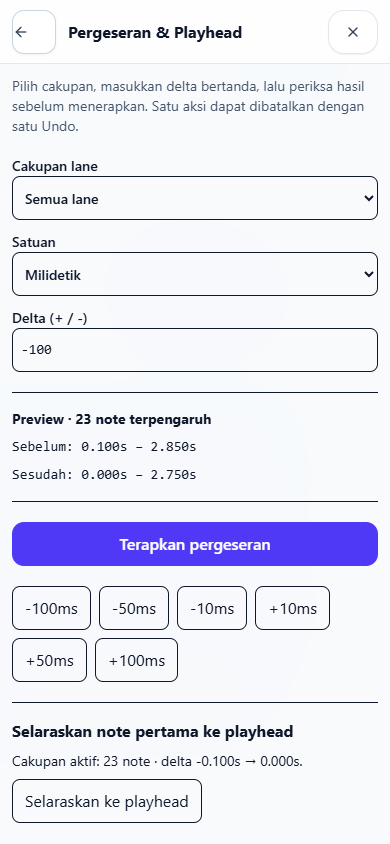
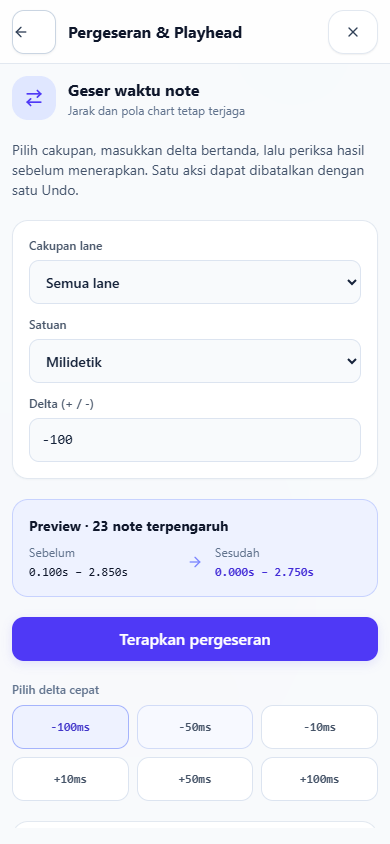
fix: polish editor panels and remove unfinished mobile controls

Changed region(s): [[0.0308, 0.2773, 0.9846, 0.9858], [0.0308, 0.0924, 0.9231, 0.2464], [0.8923, 0.3081, 0.9846, 0.3389]]

diff --git a/src/components/editor/more/SubPageBulkShiftAlign.tsx b/src/components/editor/more/SubPageBulkShiftAlign.tsx
@@ -1,4 +1,5 @@
 import React, { useState } from 'react';
+import { ArrowRight, ArrowRightLeft, Crosshair, RotateCcw } from 'lucide-react';
 import { Note } from '../../../types';
 import { previewShift, shiftNotesSafely, snapStepSeconds } from '../../../lib/editorTiming';
 
@@ -26,26 +27,26 @@ export const SubPageBulkShiftAlign: React.FC<SubPageBulkShiftAlignProps> = ({ no
     setMessage(`${result.count} note digeser ${seconds >= 0 ? '+' : ''}${seconds.toFixed(3)}s. Jarak antar-note dipertahankan.`);
   };
   const aligned = previewShift(notes, currentTime - preview.first, matches);
-  return <div className="max-w-3xl mx-auto space-y-5">
+  return <div className="editor-shift-page max-w-3xl mx-auto space-y-5">
+    <div className="flex items-center gap-3"><span className="flex h-11 w-11 items-center justify-center rounded-2xl bg-indigo-100 text-indigo-600"><ArrowRightLeft className="h-5 w-5" /></span><div><h3 className="font-bold text-slate-900">Geser waktu note</h3><p className="text-xs text-slate-500">Jarak dan pola chart tetap terjaga</p></div></div>
     <p className="text-sm text-slate-600">Pilih cakupan, masukkan delta bertanda, lalu periksa hasil sebelum menerapkan. Satu aksi dapat dibatalkan dengan satu Undo.</p>
-    <div className="grid grid-cols-1 sm:grid-cols-3 gap-3">
+    <div className="editor-shift-form grid grid-cols-1 sm:grid-cols-3 gap-3">
       <label className="text-sm font-medium">Cakupan lane<select aria-label="Cakupan lane" className="block w-full border rounded-lg p-2" value={lane} onChange={e => setLane(e.target.value === 'all' ? 'all' : Number(e.target.value))}>
         <option value="all">Semua lane</option>{[0,1,2,3].map(l => <option key={l} value={l}>Lane {l + 1}</option>)}</select></label>
       <label className="text-sm font-medium">Satuan<select aria-label="Satuan shift" className="block w-full border rounded-lg p-2" value={unit} onChange={e => setUnit(e.target.value as typeof unit)}><option value="ms">Milidetik</option><option value="sec">Detik</option><option value="beat">Beat</option></select></label>
       <label className="text-sm font-medium">Delta (+ / -)<input aria-label="Delta shift" className="block w-full border rounded-lg p-2 font-mono" type="number" step="any" value={value} onChange={e => setValue(e.target.value)} /></label>
     </div>
-    <section className="space-y-2 border-y py-4 text-sm" aria-label="Preview shift">
+    <section className={`editor-shift-preview space-y-2 text-sm ${preview.error ? 'editor-shift-invalid' : ''}`} aria-label="Preview shift">
       <h3 className="font-bold">Preview · {preview.count} note terpengaruh</h3>
-      <p className="font-mono">Sebelum: {preview.first.toFixed(3)}s – {preview.last.toFixed(3)}s</p>
-      <p className="font-mono">Sesudah: {Number.isFinite(delta) ? `${preview.nextFirst.toFixed(3)}s – ${preview.nextLast.toFixed(3)}s` : 'Isi delta yang valid'}</p>
+      <div className="flex items-center gap-3"><div className="flex-1 min-w-0"><p className="text-xs text-slate-500 mb-1">Sebelum</p><p className="font-mono text-xs">{preview.first.toFixed(3)}s – {preview.last.toFixed(3)}s</p></div><ArrowRight className="w-4 h-4 shrink-0 text-indigo-400" /><div className="flex-1 min-w-0"><p className="text-xs text-slate-500 mb-1">Sesudah</p><p className="font-mono text-xs font-semibold text-indigo-700">{Number.isFinite(delta) ? `${preview.nextFirst.toFixed(3)}s – ${preview.nextLast.toFixed(3)}s` : 'Isi delta yang valid'}</p></div></div>
       {preview.error && <p className="text-rose-800" role="status">{preview.error}</p>}
     </section>
     <button className="w-full sm:w-auto px-5 py-2 rounded-xl bg-indigo-600 text-white font-semibold disabled:opacity-40" disabled={locked || !preview.valid || delta === 0} onClick={() => apply(delta)}>Terapkan pergeseran</button>
-    <div className="flex flex-wrap gap-2">{[-100,-50,-10,10,50,100].map(ms => <button key={ms} className="border rounded-lg px-3" onClick={() => {setUnit('ms');setValue(String(ms));}}>{ms > 0 ? '+' : ''}{ms}ms</button>)}</div>
-    <section className="border-t pt-4 space-y-2"><h3 className="font-bold">Selaraskan note pertama ke playhead</h3>
+    <div><p className="text-xs font-medium text-slate-500 mb-2">Pilih delta cepat</p><div className="grid grid-cols-3 sm:grid-cols-6 gap-2">{[-100,-50,-10,10,50,100].map(ms => <button key={ms} aria-pressed={unit === 'ms' && delta === ms / 1000} className="editor-secondary-button font-mono text-xs" onClick={() => {setUnit('ms');setValue(String(ms));}}>{ms > 0 ? '+' : ''}{ms}ms</button>)}</div></div>
+    <section className="editor-shift-form space-y-3"><h3 className="font-bold flex items-center gap-2"><Crosshair className="w-4 h-4 text-sky-600" />Selaraskan ke playhead</h3>
       <p className="text-sm">Cakupan aktif: {preview.count} note · delta {(currentTime - preview.first).toFixed(3)}s → {currentTime.toFixed(3)}s.</p>
-      <button className="border rounded-lg px-3" disabled={locked || !aligned.valid} onClick={() => apply(currentTime - preview.first)}>Selaraskan ke playhead</button>
+      <button className="editor-secondary-button w-full" disabled={locked || !aligned.valid} onClick={() => apply(currentTime - preview.first)}>Selaraskan ke playhead</button>
     </section>
-    <div role="status" aria-live="polite" className="text-sm text-slate-700">{message}{canUndoShift && onUndo && <button className="ml-3 underline" onClick={() => {onUndo();setCanUndoShift(false);setMessage('Pergeseran dibatalkan.');}}>Undo</button>}</div>
+    <div role="status" aria-live="polite" className={message ? 'editor-shift-preview text-sm text-slate-700' : ''}>{message}{canUndoShift && onUndo && <button className="editor-secondary-button mt-3 flex items-center justify-center gap-2" onClick={() => {onUndo();setCanUndoShift(false);setMessage('Pergeseran dibatalkan.');}}><RotateCcw className="w-4 h-4" />Undo</button>}</div>
   </div>;
 };

diff --git a/src/components/editor/EditorSequencerCanvas.tsx b/src/components/editor/EditorSequencerCanvas.tsx
@@ -1104,7 +1104,7 @@ export const EditorSequencerCanvas: React.FC<EditorSequencerCanvasProps> = ({
         />
       </div>
 
-      <button type="button" className="px-3 border border-slate-200 rounded-lg text-sm text-slate-700" disabled={!notes.length} onClick={() => onSelectNotes(notes.map(n => n.id))}>Inspector semua note ({notes.length})</button>
+      <button type="button" className="editor-secondary-button flex items-center gap-2 text-xs" disabled={!notes.length} onClick={() => onSelectNotes(notes.map(n => n.id))}><Sliders className="w-4 h-4 text-indigo-600" />Inspector semua note ({notes.length})</button>
       {/* 2. Upgraded Mobile-Responsive Selection Toolbar */}
       {selectedNoteIds.length > 0 && (
         <div className="flex flex-col sm:flex-row items-stretch sm:items-center justify-between gap-2 p-2 sm:p-2.5 bg-gradient-to-r from-amber-50 via-white to-amber-50 border border-amber-300 rounded-2xl shadow-sm text-xs text-amber-900 animate-in fade-in">
@@ -1215,19 +1215,19 @@ export const EditorSequencerCanvas: React.FC<EditorSequencerCanvasProps> = ({
         </div>
       )}
 
-      {selectedNoteIds.length > 0 && <section className="border-t py-3 space-y-2" aria-label="Inspector note">
-        <h3 className="text-sm font-bold">Inspector · {selectedNoteIds.length} note</h3>
+      {selectedNoteIds.length > 0 && <section className="editor-note-inspector p-3 rounded-2xl bg-white border border-slate-200 shadow-xs space-y-3" aria-label="Inspector note">
+        <div className="flex items-center justify-between gap-2"><h3 className="text-sm font-bold flex items-center gap-2"><Sliders className="w-4 h-4 text-indigo-600" />Inspector · {selectedNoteIds.length} note</h3><button className="editor-secondary-button text-xs" onClick={() => onSelectNotes([])}>Tutup</button></div>
         <div className="max-h-64 overflow-y-auto space-y-2">
-        {inspectorNotes.slice(inspectorPage * 50, (inspectorPage + 1) * 50).map(note => <div key={note.id} className="grid grid-cols-3 gap-2">
+        {inspectorNotes.slice(inspectorPage * 50, (inspectorPage + 1) * 50).map((note, index) => <div key={note.id} className="rounded-xl bg-slate-50 border border-slate-100 p-3"><p className="text-xs font-semibold text-slate-500 mb-2">Note {inspectorPage * 50 + index + 1} · {note.duration ? 'Hold' : 'Tap'}</p><div className="grid grid-cols-3 gap-2">
           <label className="text-xs">Waktu (s)<input aria-label={`Waktu ${note.id}`} type="number" min="0" step="0.001" defaultValue={note.time} key={`t-${note.id}-${note.time}`} disabled={isLocked || isPreset} className="w-full border rounded-lg" onBlur={e => {const value=Number(e.target.value);if(e.target.value && Number.isFinite(value) && value>=0) onUpdateNotes(notes.map(n=>n.id===note.id?{...n,time:value}:n));else e.target.value=String(note.time);}} /></label>
           <label className="text-xs">Lane<select aria-label={`Lane ${note.id}`} value={note.lane} disabled={isLocked || isPreset} className="w-full border rounded-lg" onChange={e=>onUpdateNotes(notes.map(n=>n.id===note.id?{...n,lane:Number(e.target.value)}:n))}>{[0,1,2,3].map(l=><option key={l} value={l}>{l+1}</option>)}</select></label>
           <label className="text-xs">Durasi (s)<input aria-label={`Durasi ${note.id}`} type="number" min="0" step="0.001" defaultValue={note.duration || 0} key={`d-${note.id}-${note.duration}`} disabled={isLocked || isPreset} className="w-full border rounded-lg" onBlur={e => {const value=Number(e.target.value);if(e.target.value && Number.isFinite(value) && value>=0) onUpdateNotes(notes.map(n=>n.id===note.id?{...n,duration:value || undefined}:n));else e.target.value=String(note.duration || 0);}} /></label>
-        </div>)}
+        </div></div>)}
         </div>
         {inspectorNotes.length > 50 && <div className="flex items-center gap-3 text-sm">
-          <button disabled={inspectorPage === 0} onClick={() => setInspectorPage(p => p - 1)}>Sebelumnya</button>
+          <button className="editor-secondary-button text-xs" disabled={inspectorPage === 0} onClick={() => setInspectorPage(p => p - 1)}>Sebelumnya</button>
           <span>{inspectorPage + 1} / {Math.ceil(inspectorNotes.length / 50)}</span>
-          <button disabled={(inspectorPage + 1) * 50 >= inspectorNotes.length} onClick={() => setInspectorPage(p => p + 1)}>Berikutnya</button>
+          <button className="editor-secondary-button text-xs" disabled={(inspectorPage + 1) * 50 >= inspectorNotes.length} onClick={() => setInspectorPage(p => p + 1)}>Berikutnya</button>
         </div>}
       </section>}
       {/* 3. Lock Mode Notice */}

diff --git a/src/components/editor/more/EditorMoreHub.tsx b/src/components/editor/more/EditorMoreHub.tsx
@@ -165,15 +165,15 @@ export const EditorMoreHub: React.FC<EditorMoreHubProps> = ({
       <main className="flex-1 overflow-y-auto p-4 sm:p-6 md:p-8">
         {/* VIEW 1: HUB MENU 8 TOMBOL MEDIATOR UTAMA */}
         {activeSubPage === null && <div className="max-w-3xl mx-auto space-y-5">
-          <p className="text-sm text-slate-600">{selectedDifficulty} · {notes.length} note · {bpm.toFixed(1)} BPM · {Math.round(offset * 1000)}ms · {saveMode === 'auto' ? 'Autosave lokal' : 'Simpan manual'}</p>
+          <div className="rounded-2xl border border-indigo-100 bg-indigo-50/70 p-4"><p className="font-semibold text-sm text-slate-900 break-words">{currentSong?.title || 'Chart aktif'}</p><p className="text-xs text-slate-600 mt-1 leading-relaxed">{selectedDifficulty} · {notes.length} note · {bpm.toFixed(1)} BPM · {Math.round(offset * 1000)}ms</p><span className="inline-block mt-2 text-xs font-medium text-indigo-700">{saveMode === 'auto' ? 'Autosave lokal' : 'Simpan manual'}</span></div>
           {([
             {label:'Audio', items:[{id:'audio_track',icon:Music,title:'Track & Relink Audio',detail:audioStatus || (audioBuffer ? 'Buffer tersedia' : 'Butuh relink')}]},
             {label:'Chart & Data',items:[{id:'difficulty_json',icon:Layers,title:'Difficulty & JSON',detail:`${Object.keys(currentSong.charts).length} slot`},{id:'save_method',icon:HardDrive,title:'Penyimpanan & Draf',detail:saveMode === 'auto' ? 'Autosave' : 'Manual'}]},
             {label:'Ritme',items:[{id:'bpm_offset_bounds',icon:Activity,title:'BPM, Offset & Durasi',detail:`${bpm.toFixed(1)} BPM`},{id:'sound_effects',icon:Volume2,title:'Efek Suara',detail:`Hitsound ${enableHitsounds?'ON':'OFF'}`}]},
             {label:'Editing Massal',items:[{id:'bulk_shift_align',icon:ArrowRightLeft,title:'Pergeseran & Playhead',detail:`${notes.length} note`},{id:'auto_generator',icon:Sparkles,title:'Generator Otomatis',detail:'Analisis audio'},{id:'clear_notes',icon:Trash2,title:'Hapus Semua Note',detail:'Konfirmasi diperlukan'}]}
           ]).map(group=><section key={group.label}><h3 className="text-xs uppercase tracking-wide font-bold text-slate-500 mb-1">{group.label}</h3>
-            <div className="divide-y divide-slate-200">{group.items.map(item=><button key={item.id} type="button" className="w-full min-h-16 py-3 flex items-center gap-3 text-left hover:bg-slate-100 rounded-lg" onClick={()=>setActiveSubPage(item.id as MoreSubPageId)}>
-              <item.icon className="w-5 h-5 text-indigo-600 shrink-0" /><span className="flex-1 min-w-0"><span className="block text-sm font-semibold">{item.title}</span><span className="text-xs text-slate-600">{item.detail}</span></span><ChevronRight className="w-4 h-4 text-slate-400" />
+            <div className="overflow-hidden rounded-2xl border border-slate-200 bg-white shadow-xs divide-y divide-slate-100">{group.items.map(item=><button key={item.id} type="button" className="w-full min-h-16 px-3 py-3 flex items-center gap-3 text-left hover:bg-indigo-50/50 transition-colors" onClick={()=>setActiveSubPage(item.id as MoreSubPageId)}>
+              <span className={`flex w-10 h-10 items-center justify-center rounded-xl shrink-0 ${item.id === 'clear_notes' ? 'bg-rose-50 text-rose-600' : 'bg-indigo-50 text-indigo-600'}`}><item.icon className="w-5 h-5" /></span><span className="flex-1 min-w-0"><span className="block text-sm font-semibold">{item.title}</span><span className="block text-xs text-slate-500 mt-0.5 leading-relaxed">{item.detail}</span></span><ChevronRight className="w-4 h-4 text-slate-400 shrink-0" />
             </button>)}</div>
           </section>)}
         </div>}

diff --git a/src/index.css b/src/index.css
@@ -1989,6 +1989,42 @@ button {
   color: var(--bp-muted);
 }
 /* Mobile editor tokens and ergonomics, scoped away from rhythm gameplay. */
+.editor-secondary-button {
+  border: 1px solid #dce4f0;
+  border-radius: 12px;
+  background: #fff;
+  color: #475569;
+  padding: 8px 12px;
+  font-weight: 600;
+  cursor: pointer;
+  transition: background-color 150ms, border-color 150ms;
+}
+.editor-secondary-button:hover { background: #eef2ff; border-color: #c7d2fe; }
+.editor-secondary-button[aria-pressed="true"] { background: #eef2ff; color: #4338ca; border-color: #a5b4fc; }
+.editor-secondary-button:disabled { opacity: .45; cursor: default; }
+.editor-shift-form { padding: 16px; border: 1px solid #e2e8f0; border-radius: 16px; background: #fff; box-shadow: 0 1px 2px #0f172a08; }
+.editor-shift-form label { color: #475569; font-size: 12px; }
+.editor-shift-form :is(input, select), .editor-number-field, .editor-note-inspector :is(input, select), .editor-slot-menu input {
+  border: 1px solid #dce4f0;
+  border-radius: 10px;
+  background: #f8fafc;
+  color: #17243b;
+  padding: 10px 12px;
+  font-size: 14px;
+  min-width: 0;
+  margin-top: 6px;
+}
+.editor-shift-preview { padding: 16px; background: #eef2ff; border: 1px solid #c7d2fe; border-radius: 16px; }
+.editor-shift-preview.editor-shift-invalid { border-color: #fecdd3; background: #fff1f2; }
+.editor-shift-page > button { box-shadow: 0 3px 10px #5145ed24; min-height: 48px; cursor: pointer; }
+.editor-shift-page > button:disabled { cursor: default; box-shadow: none; }
+.editor-note-inspector label { font-weight: 500; color: #64748b; }
+.editor-note-inspector :is(input, select) { padding: 8px; background: #fff; font-family: ui-monospace, monospace; font-size: 12px; }
+.editor-slot-menu button { border-radius: 10px; padding: 8px 10px; font-weight: 600; cursor: pointer; background: #f8fafc; }
+.editor-slot-menu button:hover { background: #eef2ff; }
+.editor-slot-menu button:disabled { opacity: .4; cursor: default; }
+.editor-slot-actions[open] > summary { background: #eef2ff; color: #4338ca; }
+.editor-tool-grid > button { justify-content: center; gap: 6px; padding-inline: 8px; }
 .editor-workspace, #editor-more-fullscreen-hub {
   --editor-accent: #5145ed;
   --editor-text: #17243b;
@@ -2017,6 +2053,9 @@ button {
 #editor-transport-chassis > div:last-child > div:last-child > div { padding: 0; }
 :is(.editor-workspace, #editor-more-fullscreen-hub) summary { min-height: 44px; min-width: 44px; }
 @media (max-width: 540px) {
+  .editor-grid-intervals { display: grid; grid-template-columns: repeat(4, minmax(0, 1fr)); width: 100%; }
+  .editor-grid-intervals > span:first-child { grid-column: 1 / -1; }
+  .editor-grid-intervals > button { border-radius: 10px; }
   #editor-floating-header > div { display: grid; grid-template-columns: minmax(0, 1fr) auto; }
   #editor-floating-header > div > div:nth-child(2) { grid-column: 1 / -1; grid-row: 2; width: 100%; }
   #editor-floating-header > div > div:last-child { grid-column: 2; grid-row: 1; }

diff --git a/src/components/editor/more/SubPageAudioTrack.tsx b/src/components/editor/more/SubPageAudioTrack.tsx
@@ -140,8 +140,8 @@ export const SubPageAudioTrack: React.FC<SubPageAudioTrackProps> = ({
         </div>
       )}
 
-      <p role="status" className="text-sm font-medium">{audioStatus || (audioBuffer ? 'Buffer siap' : 'Butuh relink audio')}</p>
-      {audioBuffer && latestNoteAudioTime > audioBuffer.duration && <p className="text-sm text-amber-800">Audio berakhir pada {audioBuffer.duration.toFixed(2)}s sebelum note terakhir ({latestNoteAudioTime.toFixed(2)}s). Pastikan berkas lagu benar; chart tetap dipertahankan.</p>}
+      <p role="status" className="rounded-xl border border-indigo-100 bg-indigo-50 p-3 text-xs font-medium text-indigo-700 flex items-center gap-2"><Radio className="w-4 h-4 shrink-0" />{audioStatus || (audioBuffer ? 'Buffer siap' : 'Butuh relink audio')}</p>
+      {audioBuffer && latestNoteAudioTime > audioBuffer.duration && <p className="rounded-xl border border-amber-200 bg-amber-50 p-3 text-xs text-amber-800">Audio berakhir pada {audioBuffer.duration.toFixed(2)}s sebelum note terakhir ({latestNoteAudioTime.toFixed(2)}s). Pastikan berkas lagu benar; chart tetap dipertahankan.</p>}
       {/* Bagian 1: Status Audio Aktif */}
       <section className="space-y-3 pb-6 border-b border-slate-200">
         <div className="flex items-center justify-between">
@@ -178,7 +178,7 @@ export const SubPageAudioTrack: React.FC<SubPageAudioTrackProps> = ({
           </button>
         </div>
 
-        <div className="grid grid-cols-2 gap-x-4 gap-y-2 py-3 border-y">
+        <div className="grid grid-cols-2 gap-x-4 gap-y-3 p-4 rounded-2xl bg-white border border-slate-200 shadow-xs">
           <div className="py-1">
             <span className="text-[11px] text-slate-500 block">Judul Trek</span>
             <span className="text-sm font-semibold text-slate-900 break-words block mt-0.5">
@@ -216,7 +216,7 @@ export const SubPageAudioTrack: React.FC<SubPageAudioTrackProps> = ({
         </div>
       </section>
 
-      <div className="border border-dashed rounded-xl p-3 text-sm text-slate-600" onDragOver={e => e.preventDefault()} onDrop={e => {e.preventDefault();if(!isProcessing) relinkFile(e.dataTransfer.files[0]);}}>
+      <div className="border border-dashed border-sky-200 bg-sky-50/50 rounded-2xl p-4 text-xs leading-relaxed text-slate-600" onDragOver={e => e.preventDefault()} onDrop={e => {e.preventDefault();if(!isProcessing) relinkFile(e.dataTransfer.files[0]);}}>
         File audio baru mempertahankan semua chart. Pastikan lagu dan durasinya cocok; pada desktop Anda dapat menjatuhkan file di sini.
       </div>
       {/* Bagian 2: Hubungkan Ulang Berkas Audio */}

diff --git a/src/components/editor/EditorMobilePad.tsx b/src/components/editor/EditorMobilePad.tsx
@@ -290,7 +290,7 @@ export const EditorMobilePad: React.FC<EditorMobilePadProps> = ({
       {/* 1. MASTER TOOLBAR (ALAT BILAH: PAN, TAP, HOLD, PILIH, HAPUS + HOLD DURATION STEPPER) */}
       <div className="flex flex-wrap items-center justify-between gap-1.5 bg-slate-100 p-1 sm:p-1.5 rounded-2xl border border-slate-200">
         {/* Tool Mode Segmented Control */}
-        <div className="flex items-center gap-1 overflow-x-auto no-scrollbar max-w-full py-0.5">
+        <div className="editor-tool-grid grid grid-cols-3 sm:flex items-center gap-1 max-w-full py-0.5">
           <button
             type="button"
             aria-pressed={toolMode === 'pan'}
@@ -379,7 +379,7 @@ export const EditorMobilePad: React.FC<EditorMobilePadProps> = ({
             }`}
             title="Mode Rentang Waktu & Salin/Tempel/Potong (Pintas: R)"
           >
-            <Scissors className="w-3.5 h-3.5 shrink-0 text-white" />
+            <Scissors className="w-3.5 h-3.5 shrink-0" />
             <span>Rentang</span>
           </button>
         </div>
@@ -686,8 +686,8 @@ export const EditorMobilePad: React.FC<EditorMobilePadProps> = ({
       {/* 3. JARAK NADA STUDIO (LEBIH KECIL, RAPAT, BAKU & TRIPLET SEBARIS, TOMBOL AUTO-MAJU & FRASA DIPERKECIL) */}
       <div className="flex flex-wrap items-center justify-between gap-1.5 p-1.5 sm:p-2 bg-slate-50 rounded-2xl border border-slate-200 text-[11px]">
         {/* Single Row Unified Intervals: Baku + Triplet */}
-        <div className="flex items-center gap-1 bg-white px-1.5 py-0.5 rounded-xl border border-slate-200 overflow-x-auto no-scrollbar max-w-full shadow-xs">
-          <span className="text-[10px] font-bold text-slate-500 font-mono flex items-center gap-0.5 pr-0.5 shrink-0">
+        <div className="editor-grid-intervals flex flex-wrap items-center gap-1 bg-white p-2 rounded-xl border border-slate-200 max-w-full shadow-xs">
+          <span className="text-xs font-semibold text-slate-500 flex items-center gap-1 pr-1 shrink-0 w-full sm:w-auto">
             <Sparkles className="w-2.5 h-2.5 text-indigo-600" />
             <span>Jarak:</span>
           </span>
@@ -717,7 +717,7 @@ export const EditorMobilePad: React.FC<EditorMobilePadProps> = ({
           ))}
 
           {/* Divider */}
-          <span className="text-slate-300 px-0.5 font-mono">|</span>
+          <span className="hidden sm:block text-slate-300 px-0.5 font-mono">|</span>
 
           {/* Triplet Subdivisions */}
           {[

diff --git a/src/components/editor/more/SubPageBpmOffsetBounds.tsx b/src/components/editor/more/SubPageBpmOffsetBounds.tsx
@@ -103,7 +103,7 @@ export const SubPageBpmOffsetBounds: React.FC<SubPageBpmOffsetBoundsProps> = ({
       {legacyOffset !== undefined && <section className="border-l-4 border-amber-400 pl-3 space-y-2 text-sm">
         <p>Satuan offset chart lama belum ditandai. Nilai {legacyOffset} tetap dibaca sebagai detik sesuai playback lama. Jika Anda memastikan nilai tersebut milidetik, konversikan secara eksplisit.</p>
         <p>Konversi membuat cadangan lokal chart terlebih dahulu. Ekspor JSON sebelum konversi untuk cadangan berkas.</p>
-        <button disabled={isLocked} className="border rounded-lg px-3" onClick={onConvertLegacyOffset}>Cadangkan & konversi offset lama dari ms</button>
+        <button disabled={isLocked} className="editor-secondary-button text-xs" onClick={onConvertLegacyOffset}>Cadangkan & konversi offset lama dari ms</button>
       </section>}
       {/* Feedback Banner */}
       {feedback && (
@@ -263,7 +263,7 @@ export const SubPageBpmOffsetBounds: React.FC<SubPageBpmOffsetBoundsProps> = ({
               <span>{offset > 0 ? `+${Math.round(offset * 1000)}` : Math.round(offset * 1000)}</span>
               <span className="text-xs text-slate-500 font-sans font-bold">ms</span>
             </div>
-<label className="block text-xs">Offset (ms)<input aria-label="Offset milidetik" type="number" step="1" value={Math.round(offset * 1000)} disabled={isLocked} className="block w-32 text-base border rounded-lg" onChange={e => { const v = Number(e.target.value); if (Number.isFinite(v)) onUpdateOffset(v / 1000); }} /></label>
+            <label className="block text-xs font-medium text-slate-600 mt-3 mb-2">Atur offset (ms)<input aria-label="Offset milidetik" type="number" step="1" value={Math.round(offset * 1000)} disabled={isLocked} className="editor-number-field block w-40 mt-1 font-mono" onChange={e => { const v = Number(e.target.value); if (Number.isFinite(v)) onUpdateOffset(v / 1000); }} /></label>
             <span className="text-[11px] text-slate-400 font-mono">
               ({offset.toFixed(3)} detik)
             </span>

diff --git a/src/components/editor/more/SubPageDifficultyJson.tsx b/src/components/editor/more/SubPageDifficultyJson.tsx
@@ -296,9 +296,9 @@ export const SubPageDifficultyJson: React.FC<SubPageDifficultyJsonProps> = ({
                   </div>
                 </button>
 
-                <details className="relative shrink-0">
-                  <summary aria-label={`Tindakan slot ${diff}`} className="cursor-pointer list-none p-2 text-sm">•••</summary>
-                  <div className="absolute right-0 top-full z-10 w-56 p-3 bg-white border rounded-xl shadow-lg space-y-2">
+                <details className="editor-slot-actions relative shrink-0">
+                  <summary aria-label={`Tindakan slot ${diff}`} className="cursor-pointer list-none p-2 text-sm rounded-xl text-slate-500 hover:bg-indigo-100 flex items-center justify-center">•••</summary>
+                  <div className="editor-slot-menu absolute right-0 top-full z-10 w-56 p-3 bg-white border border-slate-200 rounded-2xl shadow-lg space-y-2 text-xs text-slate-700">
                     {onRenameDifficulty && <div className="space-y-1"><input aria-label={`Nama baru ${diff}`} className="w-full border rounded" placeholder="Nama baru" value={renameValue} onChange={e=>setRenameValue(e.target.value)} disabled={isLocked} />
                       <button className="w-full text-left" disabled={isLocked || !renameValue.trim() || availableDiffs.includes(renameValue.trim())} onClick={()=>{onRenameDifficulty(song.id,diff,renameValue.trim());if(diff===selectedDifficulty)onSelectDifficulty(renameValue.trim());setRenameValue('');}}>Ubah nama</button></div>}
                     {onReorderDifficulties && [-1,1].map(direction=><button key={direction} className="block w-full text-left" disabled={isLocked || availableDiffs.indexOf(diff)+direction<0 || availableDiffs.indexOf(diff)+direction>=availableDiffs.length} onClick={()=>{const order=[...availableDiffs];const index=order.indexOf(diff);[order[index],order[index+direction]]=[order[index+direction],order[index]];onReorderDifficulties(song.id,order);}}>{direction<0?'Pindah ke atas':'Pindah ke bawah'}</button>)}

diff --git a/src/components/editor/more/SubPageAutoGenerator.tsx b/src/components/editor/more/SubPageAutoGenerator.tsx
@@ -224,7 +224,7 @@ export const SubPageAutoGenerator: React.FC<SubPageAutoGeneratorProps> = ({
       </div>
 
       {/* Eksekusi Generator */}
-      <div className="p-4 rounded-2xl bg-white border border-slate-200 flex items-center justify-between gap-4 shadow-xs">
+      <div className="p-4 rounded-2xl bg-white border border-slate-200 flex flex-col sm:flex-row sm:items-center justify-between gap-4 shadow-xs">
         <div className="space-y-0.5">
           <span className="text-xs font-bold text-slate-900 block">
             Analisis AudioBuffer & Ritme

diff --git a/docs/EDITOR_UI_CORRECTION.md b/docs/EDITOR_UI_CORRECTION.md
@@ -1,0 +1,46 @@
+# Koreksi regresi UI editor — 13 Oktober 2026
+
+Pengguna melaporkan UI mentahan setelah deployment `15573e6`, terutama pada
+Pergeseran & Playhead dan editor utama. Tes fungsi sebelumnya tidak cukup
+untuk menilai konsistensi visual. Pemeriksaan screenshot membuktikan form
+polos, menu slot dan inspector tanpa styling yang memadai, serta toolbar
+mobile dengan label terpotong.
+
+## Perubahan
+
+- Pergeseran & Playhead: panel form, preview sebelum/sesudah, pilihan delta
+  aktif, panel alignment dan feedback Undo mengikuti gaya aplikasi.
+- Editor utama: alat dalam grid mobile, seluruh subdivisi terlihat tanpa
+  scroll tersembunyi, icon Rentang mengikuti warna tombol, inspector dan
+  navigasinya konsisten dengan panel lain.
+- More Hub: kelompok menu dengan kartu dan status chart aktif.
+- Difficulty: styling input dan aksi pada menu slot.
+- BPM/offset dan audio: input, status, metadata dan area drop distyling.
+- Generator: panel eksekusi ditumpuk pada mobile agar deskripsi tidak terjepit.
+
+Perubahan ini mempertahankan kontrak timing, validasi shift, Undo, dan data
+chart. Tidak ada perubahan pada sinkronisasi GitHub atau migrasi data.
+
+## Bukti verifikasi
+
+- 23 tes unit, TypeScript dan build produksi lulus.
+- Runner browser utama: 8 viewport × 8 modul, 14 kelompok fungsi, tanpa
+  page error atau overflow halaman.
+- Runner tambahan: 6 kelompok fungsi lulus, termasuk erase/Undo, clear/Undo,
+  keyboard, reduced motion dan teks 200%.
+- Pemeriksaan khusus pada 320, 390 dan 1280px: label alat tidak terpotong,
+  grid tidak overflow, inspector/menu slot/playhead dapat diakses dan teks
+  200% tidak menimbulkan overflow halaman.
+- Screenshot terbaru di `docs/screenshots/`, termasuk
+  `editor-inspector-polished-390.png`, `editor-slot-menu-polished-390.png`
+  dan `editor-shift-playhead-polished-390.png`, diperiksa secara visual.
+
+Satu eksekusi tes tambahan terganggu reload Vite ketika runner lain menulis
+laporan JSON. Log server mengonfirmasi reload tersebut. Menjalankan kedua
+runner berurutan menyelesaikan gangguan tanpa perubahan logika aplikasi.
+Pemeriksaan screenshot khusus awal juga membutuhkan selector menu slot yang
+hanya menunjuk menu terbuka; selector diperbaiki dan pemeriksaan lulus.
+
+Verifikasi memakai Edge/Chromium dan fixture editor aktual, bukan perangkat
+iPhone/Safari fisik. Koreksi ini mencakup editor dan delapan modulnya; tidak
+mengklaim semua halaman aplikasi sudah lolos penilaian visual pengguna.
